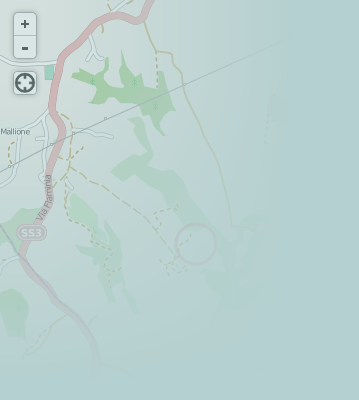
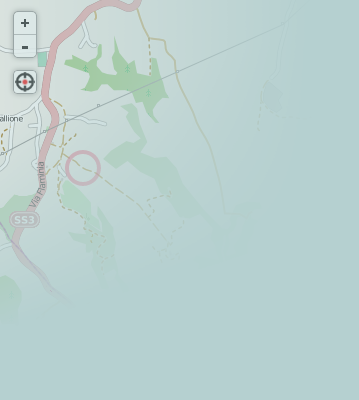
added option circleStyle that extend default circle style of gps cursor, add disqus

diff --git a/index.html b/index.html
@@ -24,26 +24,49 @@ A Leaflet Control for tracking your position<br />
 
 <h4>Demos</h4>
 <ul id="demos">
-	<li><a target="_blank" href="demos/simple.html">Simple</a></li>	
+	<li><a target="_blank" href="demos/simple.html">Simple</a></li>
+	<li><a target="_blank" href="demos/circle-style.html">Styling circle</a></li>	
 </ul>
 
 <h4>Website</h4>
 <a href="http://labs.easyblog.it/maps/leaflet-gps">labs.easyblog.it/maps/leaflet-gps</a>
+	<br />
 
+<h4>Download</h4>
+<ul>
+	<li><a href="https://github.com/stefanocudini/leaflet-gps/archive/master.zip">Dev Last Version (.zip)</a></li>
+	<li><a href="leaflet-gps.js">Source Code (.js)</a></li>
+	<li><a href="leaflet-gps.min.js">Compressed (.min.js)</a></li>		
+</ul>
+	
 <div id="copy">powered by <a href="mailto:stefano.cudini@gmail.com">Stefano Cudini</a></div>
 
-<script type="text/javascript">
+<hr />
 
+<div id="comments">
+	<div id="disqus_thread"></div>
+</div>
+
+<script type="text/javascript">
+var disqus_shortname = 'labs-easyblog-it';
+(function() {
+	var dsq = document.createElement('script'); dsq.type = 'text/javascript'; dsq.async = true;
+	dsq.src = 'http://' + disqus_shortname + '.disqus.com/embed.js';
+	(document.getElementsByTagName('head')[0] || document.getElementsByTagName('body')[0]).appendChild(dsq);
+})();
+</script>
+<noscript>Please enable JavaScript to view the <a href="http://disqus.com/?ref_noscript">comments powered by Disqus.</a></noscript>
+<a href="http://disqus.com" class="dsq-brlink">comments powered by <span class="logo-disqus">Disqus</span></a>
+
+<script type="text/javascript">
   var _gaq = _gaq || [];
   _gaq.push(['_setAccount', 'UA-38393469-1']);
   _gaq.push(['_trackPageview']);
-
   (function() {
     var ga = document.createElement('script'); ga.type = 'text/javascript'; ga.async = true;
     ga.src = ('https:' == document.location.protocol ? 'https://ssl' : 'http://www') + '.google-analytics.com/ga.js';
     var s = document.getElementsByTagName('script')[0]; s.parentNode.insertBefore(ga, s);
   })();
-
 </script>
 
 </body>

diff --git a/leaflet-gps.js b/leaflet-gps.js
@@ -4,7 +4,7 @@
  * https://bitbucket.org/zakis_/leaflet-gps
  * http://labs.easyblog.it/maps/leaflet-gps
  *
- * Copyright 2012, Stefano Cudini - stefano.cudini@gmail.com
+ * Copyright 2013, Stefano Cudini - stefano.cudini@gmail.com
  * Licensed under the MIT license.
  */
 
@@ -15,14 +15,16 @@ L.Control.Gps = L.Control.extend({
         position: 'topleft',
         gpsLayer: null,
         autoActive: false,
-        autoTracking: true,
+        autoTracking: false,
         //TODO maxzoom
         //TODO autozoom
         //TODO timeout autoTracking
-        title: 'Center map on your location'
+        title: 'Center map on your location',
+        circleStyle: {radius: 16, weight:3, color: '#e03', fill: false}
     },
 
 	initialize: function(options) {
+		options.circleStyle = L.Util.extend({}, this.options.circleStyle, options.circleStyle); 
 		L.Util.setOptions(this, options);
 		this.options.gpsLayer = this.options.gpsLayer || new L.LayerGroup();
 		this._stateGps = false;//global state of gps
@@ -31,7 +33,7 @@ L.Control.Gps = L.Control.extend({
     onAdd: function (map) {
     
     	this._map = map;
-		this._circleGps = (new L.CircleMarker([0,0], {radius: 20, weight:3, color: '#e03', fill: false})).addTo(this._map);
+		this._circleGps = (new L.CircleMarker([0,0], this.options.circleStyle )).addTo(this._map);
         	
         var container = L.DomUtil.create('div', 'leaflet-control-gps');
         

diff --git a/demos/circle-style.html b/demos/circle-style.html
@@ -1,0 +1,34 @@
+<!DOCTYPE html PUBLIC "-//W3C//DTD XHTML 1.0 Strict//EN" "http://www.w3.org/TR/xhtml1/DTD/xhtml1-strict.dtd"> 
+<html xmlns="http://www.w3.org/1999/xhtml"> 
+<head> 
+<title>Leaflet.Control.Gps - Styling circle</title> 
+<meta http-equiv="Content-Type" content="text/html; charset=utf-8" /> 
+<meta name="viewport" content="width=device-width, initial-scale=1.0, maximum-scale=1.0, user-scalable=yes">
+<link rel="stylesheet" href="/leaflet/leaflet.css" />
+<link rel="stylesheet" href="../leaflet-gps.css" />
+<link rel="stylesheet" href="style.css" />
+</head>
+
+<body>
+<h3><a href="../">Leaflet.Control.Gps</a></h3>
+
+<h4>Styling circle: <em>customize circle cursor style</em></h4>
+<div id="map"></div>
+
+<script src="/leaflet/leaflet.js"></script>
+<script src="../leaflet-gps.js"></script>
+<script>
+
+	var map = new L.Map('map', {zoom: 9, center: new L.latLng([41.575730,13.002411]) });
+
+	map.addLayer(new L.TileLayer('http://{s}.tile.openstreetmap.org/{z}/{x}/{y}.png'));	//base layer
+
+	var newStyle = {radius: 25, weight:6, color: '#2e0', fill: true};
+	
+	map.addControl( new L.Control.Gps({circleStyle: newStyle }) );//inizialize control
+
+</script>
+
+<div id="copy">powered by <a href="mailto:stefano.cudini@gmail.com">Stefano Cudini</a></div>
+</body>
+</html>

diff --git a/demos/style.css b/demos/style.css
@@ -18,6 +18,11 @@ h2, h3, h4 {
 	white-space:nowrap;
 	margin:1em 0 0 0;
 }
+hr {
+	border:none;
+	margin: 20px 0;
+	clear:both;
+}
 #desc {
 	white-space:nowrap;
 	font-size:1em;
